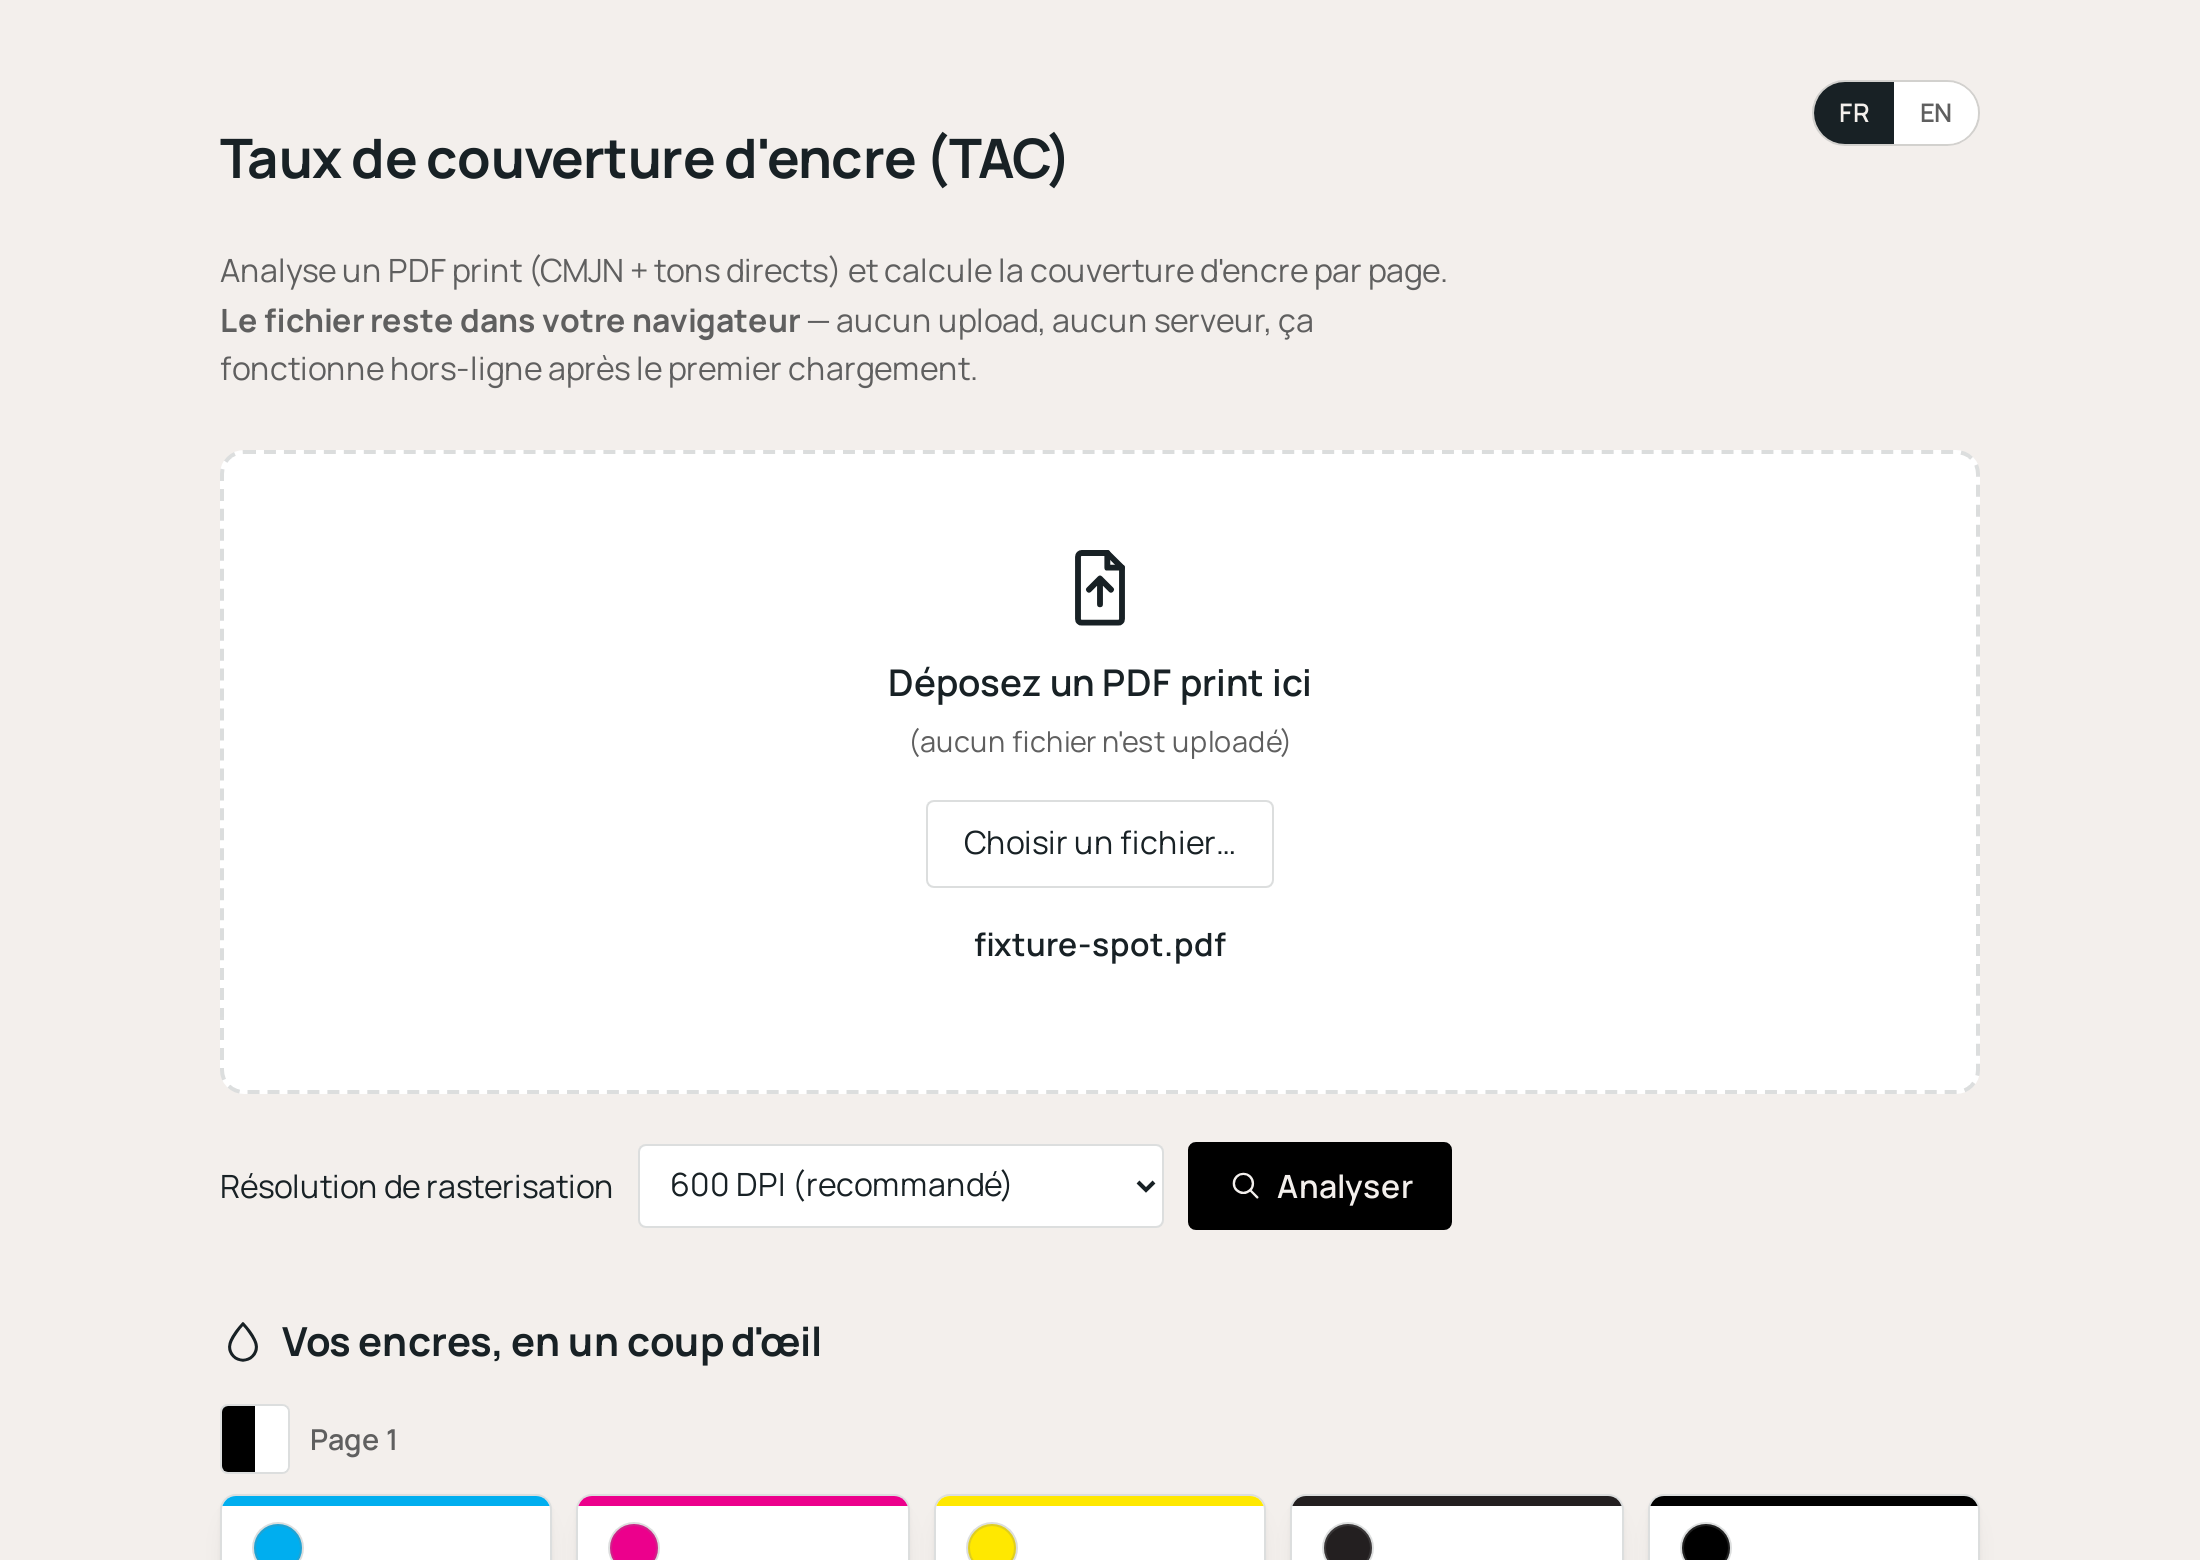
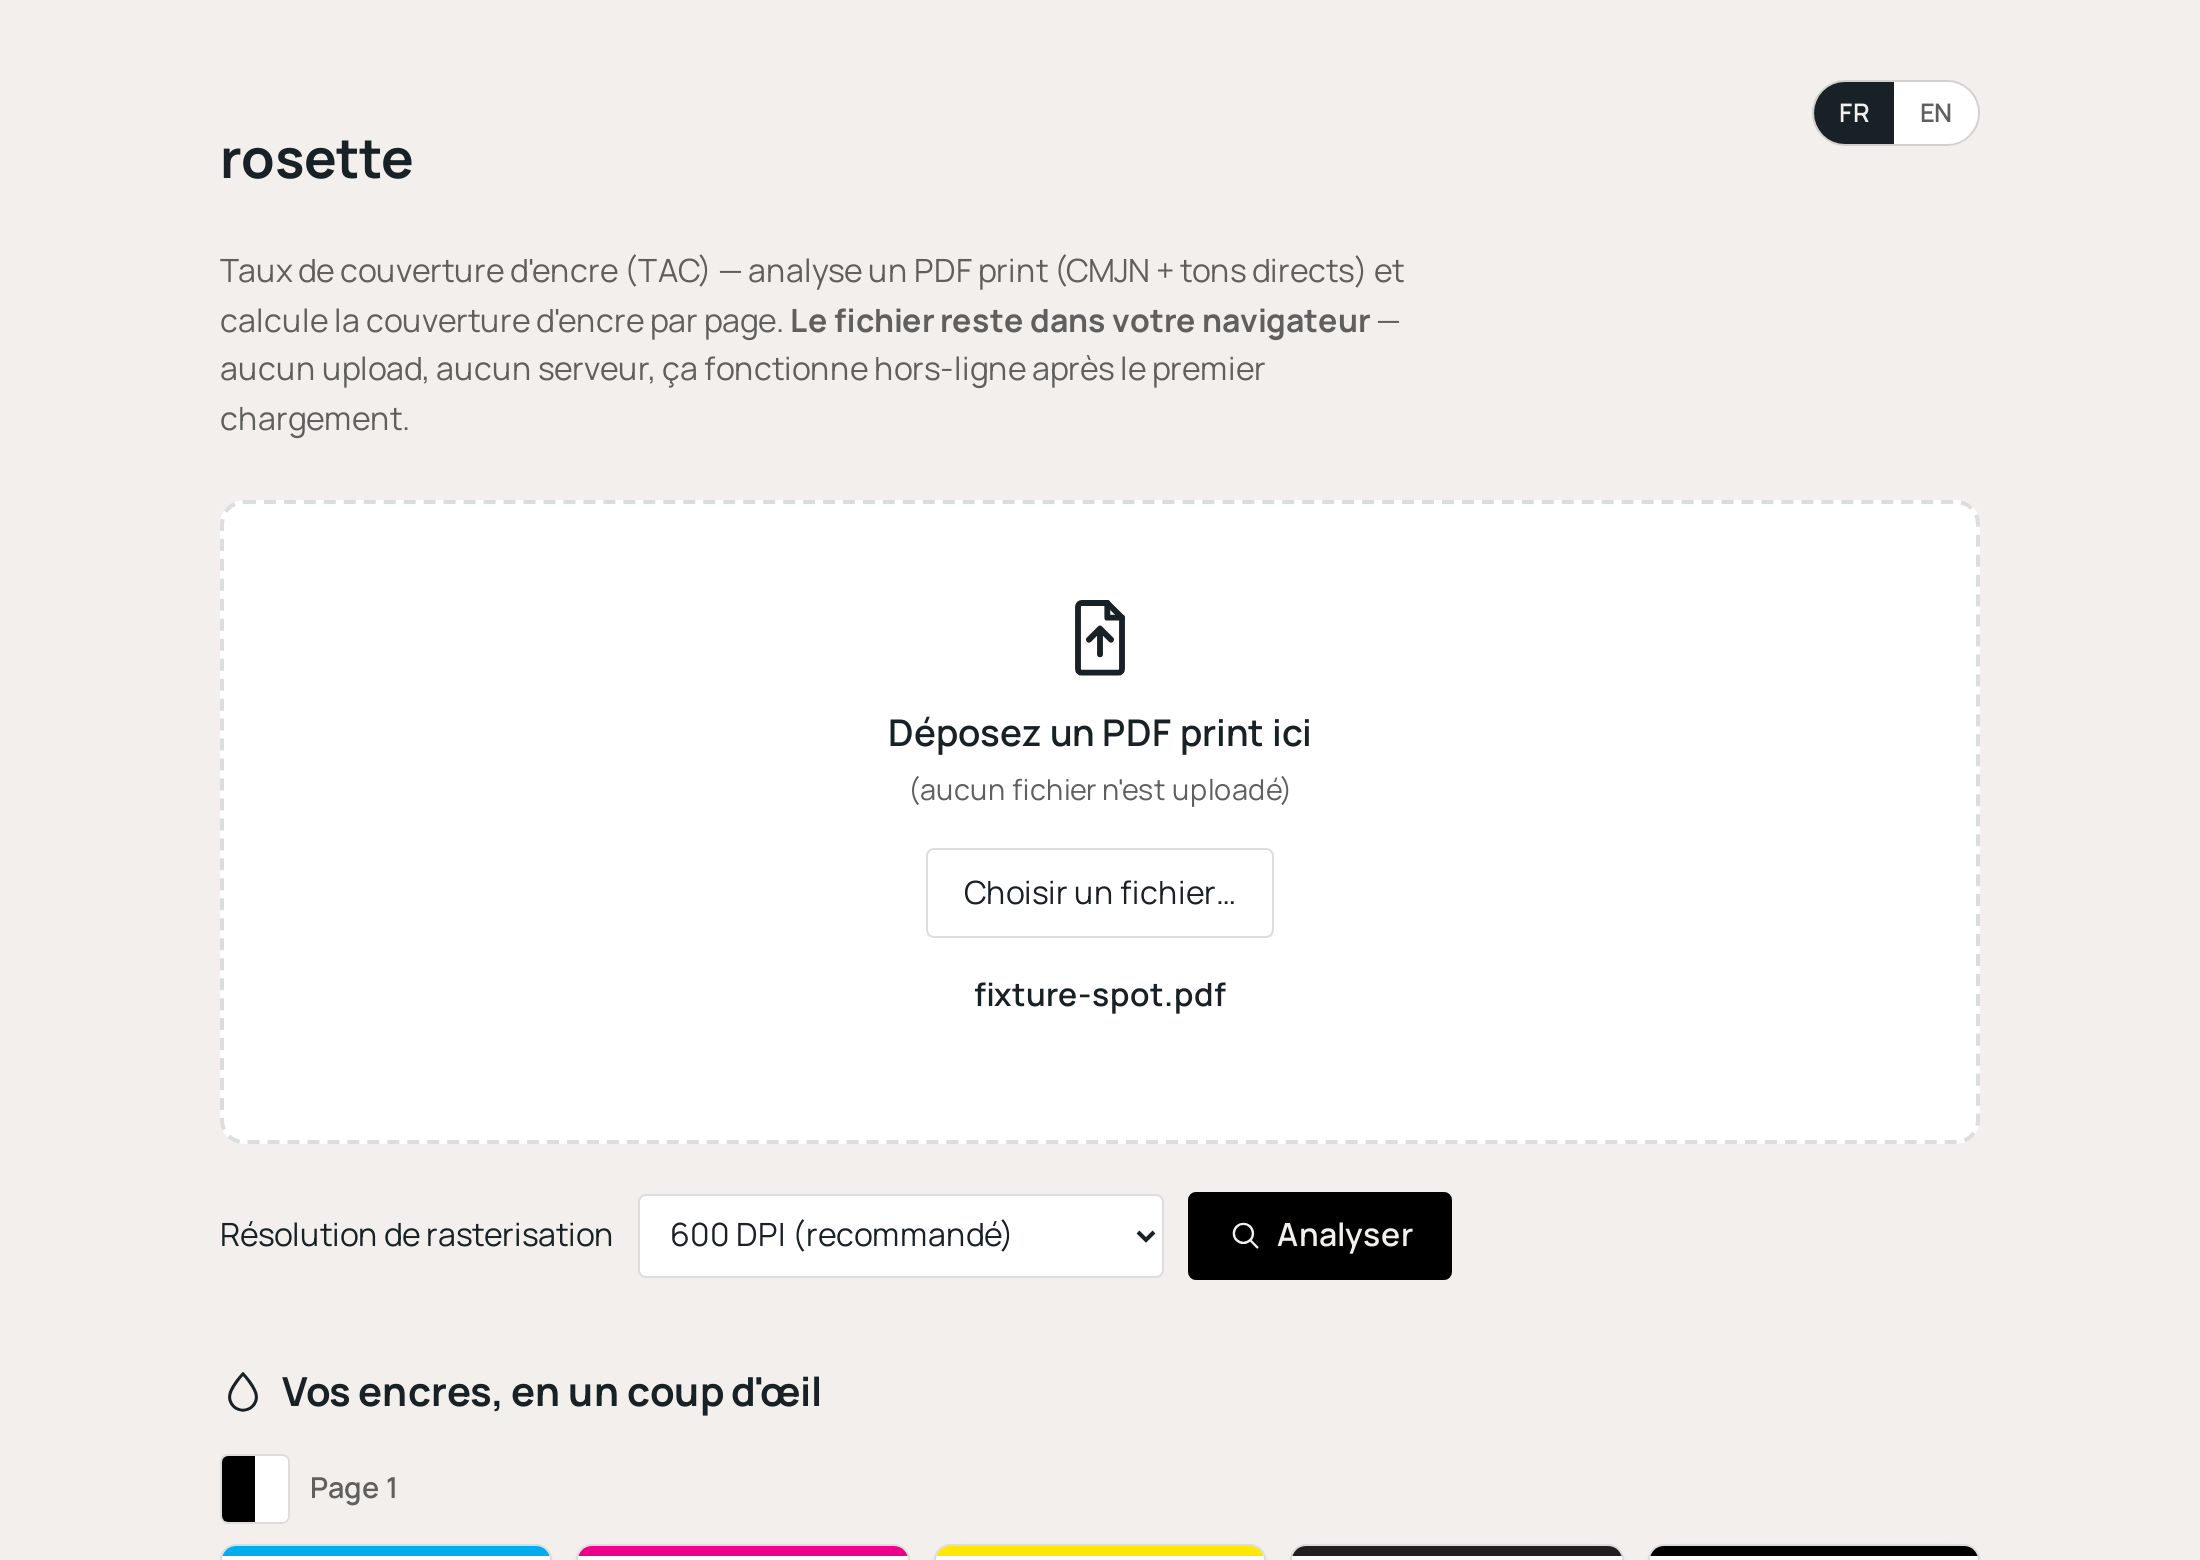
Renomme le projet "inkcover"/TAC-calc en "rosette"
"inkcoverage.app" existant déjà, changement de nom pour éviter la
confusion. Dossier local tac-calc/ -> rosette/, marque "rosette" (minuscule
volontaire) dans le H1/onglet, "Taux de couverture d'encre (TAC)" devient
le sous-titre fonctionnel plutôt que le titre. Mis à jour partout :
config.yml, sw.js (cache), docker-compose.yml (service), README.md racine
(ajout de l'analogie rosette/offset, section "Prochaines étapes", date de
publication de l'article), webapp/README.md, GITHUB.md (procédure de
renommage du dépôt GitHub existant plutôt que création).

diff --git a/webapp/js/i18n.js b/webapp/js/i18n.js
@@ -5,12 +5,14 @@
 // JS (cards, tableau, dashboard, messages) appelle t() directement au moment
 // du rendu — voir app.js.
 
-const STORAGE_KEY = "tac-calc-lang";
+const STORAGE_KEY = "rosette-lang";
 
 const DICT = {
 	fr: {
-		"app.title": "Taux de couverture d'encre (TAC)",
-		"app.tagline": "Analyse un PDF print (CMJN + tons directs) et calcule la couverture d'encre par page. <strong>Le fichier reste dans votre navigateur</strong> — aucun upload, aucun serveur, ça fonctionne hors-ligne après le premier chargement.",
+		// Casse volontairement en minuscules : nom de marque stylisé, voir
+		// index.html/README.md.
+		"app.title": "rosette",
+		"app.tagline": "Taux de couverture d'encre (TAC) — analyse un PDF print (CMJN + tons directs) et calcule la couverture d'encre par page. <strong>Le fichier reste dans votre navigateur</strong> — aucun upload, aucun serveur, ça fonctionne hors-ligne après le premier chargement.",
 		"dropzone.title": "Déposez un PDF print ici",
 		"dropzone.hint": "(aucun fichier n'est uploadé)",
 		"dropzone.browse": "Choisir un fichier…",
@@ -103,11 +105,12 @@ const DICT = {
 		"report.dpi": "Résolution :",
 		"report.thumbnailAlt": "Aperçu de la page {page}",
 		"report.ecoSectionTitle": "Impact éco-encrage (page {page})",
-		"report.footerNote": "Rapport généré par TAC-calc — 100% navigateur, aucune donnée envoyée sur un serveur.",
+		"report.footerNote": "Rapport généré par rosette — 100% navigateur, aucune donnée envoyée sur un serveur.",
 	},
 	en: {
-		"app.title": "Ink coverage rate (TAC)",
-		"app.tagline": "Analyzes a print PDF (CMYK + spot colors) and calculates ink coverage per page. <strong>The file stays in your browser</strong> — no upload, no server, works offline after the first load.",
+		// Lowercase on purpose: stylized brand name, see index.html/README.md.
+		"app.title": "rosette",
+		"app.tagline": "Ink coverage rate (TAC) — analyzes a print PDF (CMYK + spot colors) and calculates ink coverage per page. <strong>The file stays in your browser</strong> — no upload, no server, works offline after the first load.",
 		"dropzone.title": "Drop a print PDF here",
 		"dropzone.hint": "(no file is uploaded)",
 		"dropzone.browse": "Choose a file…",
@@ -196,7 +199,7 @@ const DICT = {
 		"report.dpi": "Resolution:",
 		"report.thumbnailAlt": "Preview of page {page}",
 		"report.ecoSectionTitle": "Eco-inking impact (page {page})",
-		"report.footerNote": "Report generated by TAC-calc — 100% browser-based, no data sent to a server.",
+		"report.footerNote": "Report generated by rosette — 100% browser-based, no data sent to a server.",
 	},
 };
 

diff --git a/webapp/index.html b/webapp/index.html
@@ -1,4 +1,4 @@
-<title data-i18n="app.title">Taux de couverture d'encre (TAC)</title>
+<title data-i18n="app.title">rosette</title>
 <meta charset="utf-8">
 <meta name="viewport" content="width=device-width, initial-scale=1">
 <meta name="description" content="Analyse la couverture d'encre (CMJN + tons directs) d'un PDF print, 100% dans le navigateur, sans upload.">
@@ -50,14 +50,14 @@
 <main>
 	<header>
 		<div class="header-row">
-			<h1 data-i18n="app.title">Taux de couverture d'encre (TAC)</h1>
+			<h1 data-i18n="app.title">rosette</h1>
 			<div class="lang-switch" role="group" aria-label="Langue / Language">
 				<button type="button" id="lang-fr" data-i18n="lang.fr" class="lang-btn">FR</button>
 				<button type="button" id="lang-en" data-i18n="lang.en" class="lang-btn">EN</button>
 			</div>
 		</div>
 		<p class="tagline" data-i18n="app.tagline" data-i18n-html>
-			Analyse un PDF print (CMJN + tons directs) et calcule la couverture d'encre par page.
+			Taux de couverture d'encre (TAC) — analyse un PDF print (CMJN + tons directs) et calcule la couverture d'encre par page.
 			<strong>Le fichier reste dans votre navigateur</strong> — aucun upload, aucun serveur, ça fonctionne hors-ligne après le premier chargement.
 		</p>
 	</header>

diff --git a/webapp/sw.js b/webapp/sw.js
@@ -2,7 +2,7 @@
 // de wasm MuPDF) après le premier chargement, pour un fonctionnement hors-ligne
 // ensuite. Stratégie cache-first + mise à jour en arrière-plan.
 
-const CACHE_NAME = "tac-calc-v3";
+const CACHE_NAME = "rosette-v1";
 const CORE_ASSETS = [
 	"./",
 	"./index.html",

diff --git a/GITHUB.md b/GITHUB.md
@@ -1,51 +1,51 @@
-# Publier ce dépôt sur GitHub
+# Publier / renommer ce dépôt sur GitHub
 
-Le dépôt Git est déjà initialisé localement avec un premier commit. Il ne
-reste qu'à créer le dépôt distant sur GitHub et à y pousser l'historique.
+Le dépôt distant existe déjà sous le nom **`inkcover`**
+(`https://github.com/JulienSarrazin/inkcover`), avec l'historique local déjà
+poussé. Comme un autre projet utilise déjà le nom "inkcoverage.app", le projet
+est renommé **rosette** — voici comment renommer le dépôt GitHub pour
+suivre.
 
-## 1. Créer le dépôt sur GitHub
+## 1. Renommer le dépôt sur GitHub
 
-Sur [github.com/new](https://github.com/new) :
-- Nom suggéré : `tac-calc` (ou ce que vous préférez — pas besoin qu'il
-  corresponde au nom du dossier local).
-- Visibilité : public ou privé, comme vous le souhaitez.
-- **Ne cochez rien** ("Add a README", "Add .gitignore", "Add a license") —
-  le dépôt local a déjà tout ça, cocher une case ici créerait un commit
-  distant en conflit avec l'historique local dès le premier push.
+Sur la page du dépôt : **Settings** → tout en haut, champ "Repository name"
+→ remplacez `inkcover` par `rosette` → **Rename**.
 
-## 2. Relier le dépôt local et pousser
+GitHub redirige automatiquement les anciennes URLs (`.../inkcover`) vers la
+nouvelle pendant un moment, donc rien ne casse immédiatement si un lien
+traîne encore quelque part.
 
-GitHub affiche les commandes exactes juste après la création (bouton
-"…or push an existing repository from the command line"), mais en résumé,
-depuis le dossier `tac-calc/` :
+## 2. Mettre à jour le remote local
+
+Depuis le dossier `rosette/` (le dossier local a aussi été renommé, depuis
+`tac-calc/`) :
 
 ```bash
-git remote add origin https://github.com/<votre-compte>/<nom-du-repo>.git
-git branch -M main
-git push -u origin main
+git remote set-url origin https://github.com/JulienSarrazin/rosette.git
+git remote -v   # vérifier que ça pointe bien vers la nouvelle URL
+git push origin main
 ```
 
-(remplacez `<votre-compte>/<nom-du-repo>` par les vraies valeurs affichées
-par GitHub). Une authentification vous sera demandée — GitHub n'accepte
-plus les mots de passe pour `git push` en HTTPS, il faut un
-[personal access token](https://github.com/settings/tokens) (ou passer en
-SSH avec une clé déjà configurée).
+## 3. Après le renommage
 
-## 3. Après publication
+- **Description/topics GitHub** : suggestion de description courte — "Rosette
+  — mesure du taux de couverture d'encre (TAC) d'un PDF print, 100% dans le
+  navigateur, zéro backend." Topics suggérés : `pdf`, `webassembly`, `print`,
+  `packaging`, `eco-design`, `mupdf`.
+- `webapp/config.yml` → `credits.github_url` pointe déjà vers
+  `https://github.com/JulienSarrazin/rosette/` (mis à jour par avance) —
+  vérifiez juste que le lien fonctionne une fois le renommage fait côté
+  GitHub, puis re-déployez si l'outil est déjà en ligne sur OVH.
 
-- **Lien GitHub dans l'app** : une fois le dépôt en ligne, copiez son URL
-  dans `webapp/config.yml` → `credits.github_url` (remplace le `"#"`
-  actuel), puis re-déployez. Le pied de page de l'outil pointera dessus.
-- **Lien de l'article** : même chose pour `credits.article_url` — l'URL
-  exacte est sur juliensarrazin.fr (l'export PDF local avait l'adresse
-  tronquée, impossible à reconstituer avec certitude depuis ce dépôt).
-- **Description/topics GitHub** : suggestion de description courte —
-  "Mesure du taux de couverture d'encre (TAC) d'un PDF print, 100% dans le
-  navigateur — MuPDF WASM, zéro backend." Topics suggérés : `pdf`,
-  `webassembly`, `print`, `packaging`, `eco-design`, `mupdf`.
-- **Réglages du dépôt** : si vous le passez en public, pensez à vérifier
-  dans Settings → General qu'"Issues" et "Discussions" sont activés ou non
-  selon ce que vous voulez ouvrir aux retours.
+## Si vous créez un tout nouveau dépôt à la place
+
+Sur [github.com/new](https://github.com/new), nom `rosette`, ne cochez rien
+("Add a README/.gitignore/license" — déjà tout présent en local), puis :
+
+```bash
+git remote set-url origin https://github.com/<votre-compte>/rosette.git
+git push -u origin main
+```
 
 ## Ce qui n'est volontairement pas dans le dépôt
 

diff --git a/README.md b/README.md
@@ -1,4 +1,14 @@
-# TAC-calc
+# Rosette
+
+> **La rosette — la signature de l'offset**
+>
+> En impression CMJN, les quatre plaques tramées sont imprimées à des angles
+> légèrement différents (C : 15°, M : 75°, J : 0°, N : 45°). Quand elles se
+> superposent, les points forment un motif caractéristique appelé rosette.
+> C'est la signature visuelle de l'impression offset. La « structure
+> pointillée » reconnaissable d'un magazine ou d'un catalogue imprimé, c'est
+> précisément cette rosette. Avec des angles mal choisis, le résultat est un
+> moiré visible sur l'imprimé.
 
 **Mesure du taux de couverture d'encre (TAC) d'un PDF print — 100% dans le
 navigateur, zéro upload, zéro backend.**
@@ -24,7 +34,8 @@ contours de glyphes maison (TrueType/CFF) pour mesurer fidèlement les tons
 directs — MuPDF n'exposant pas nativement de rendu "toutes séparations"
 côté JavaScript. Voir `docs/prompt-original.md` pour le brief d'origine.
 
-Contexte complet, démarche et limites : [article associé](https://www.juliensarrazin.fr/2026/02/01/mesurer-le-taux-dencrage-pourquoi-la-mesure-au-point-ne-suffit-pas-et-comment-obtenir-une-mesure-globale-exploitable/)
+Contexte complet, démarche et limites : [« Mesurer le taux d'encrage : pourquoi la mesure « au point » ne suffit pas... »](https://www.juliensarrazin.fr/2026/02/01/mesurer-le-taux-dencrage-pourquoi-la-mesure-au-point-ne-suffit-pas-et-comment-obtenir-une-mesure-globale-exploitable/),
+article publié le 1er février 2026 sur juliensarrazin.fr.
 
 ## Utilisation
 
@@ -53,3 +64,11 @@ leurs licences : [THIRD-PARTY-NOTICES.md](THIRD-PARTY-NOTICES.md).
 Conçu par [Julien Sarrazin](https://www.juliensarrazin.fr/), designer
 graphique packaging. Développé avec l'assistance de l'IA (Claude Code) —
 voir le pied de page de l'application.
+
+## Prochaines étapes
+
+- Amélioration des rapports PDF (mise en page).
+- Amélioration de l'aperçu de page (miniatures).
+- Calcul du TAC total, toutes pages réunies, pour un même PDF.
+- Calcul de l'empreinte carbone pour la totalité du TAC (toutes pages
+  réunies) d'un même PDF.

diff --git a/webapp/README.md b/webapp/README.md
@@ -1,9 +1,10 @@
-# Taux de couverture d'encre (TAC) — 100% navigateur
+# rosette — taux de couverture d'encre (TAC), 100% navigateur
 
-Portage 100% client, sans backend, du script Python d'origine (`code-original.txt`,
+Portage 100% client, sans backend, du script Python d'origine (`docs/original-python-script.py`
 à la racine du dépôt) qui mesurait la couverture d'encre CMJN + tons directs d'un
 PDF print via Ghostscript (`tiffsep`). Le PDF ne quitte jamais le navigateur :
 aucun upload, aucun appel réseau après le chargement initial de la page.
+Voir le [README racine](../README.md) pour la présentation du projet.
 
 ## Lancer en local
 
@@ -172,7 +173,7 @@ Pour essayer un thème : éditez `theme:` dans `config.yml`, rechargez la page.
 ## Déploiement sur hébergement mutualisé OVH (Apache)
 
 Le dossier `webapp/` se déploie **tel quel** par FTP/SFTP dans le dossier
-public (ou un sous-dossier dédié, ex. `/outils/tac-calc/`). Aucun backend,
+public (ou un sous-dossier dédié, ex. `/outils/rosette/`). Aucun backend,
 aucun Node.js côté serveur.
 
 Le fichier `.htaccess` fourni dans `webapp/` :
